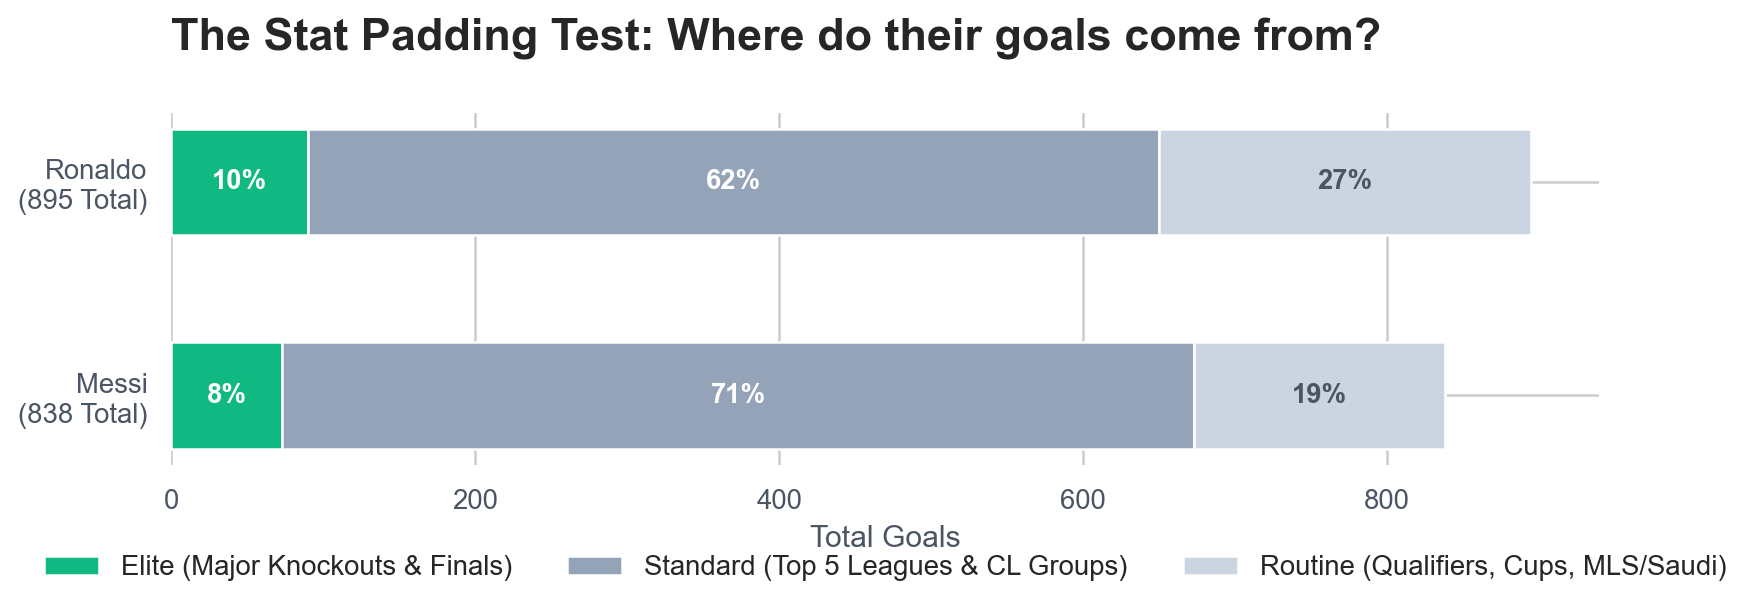
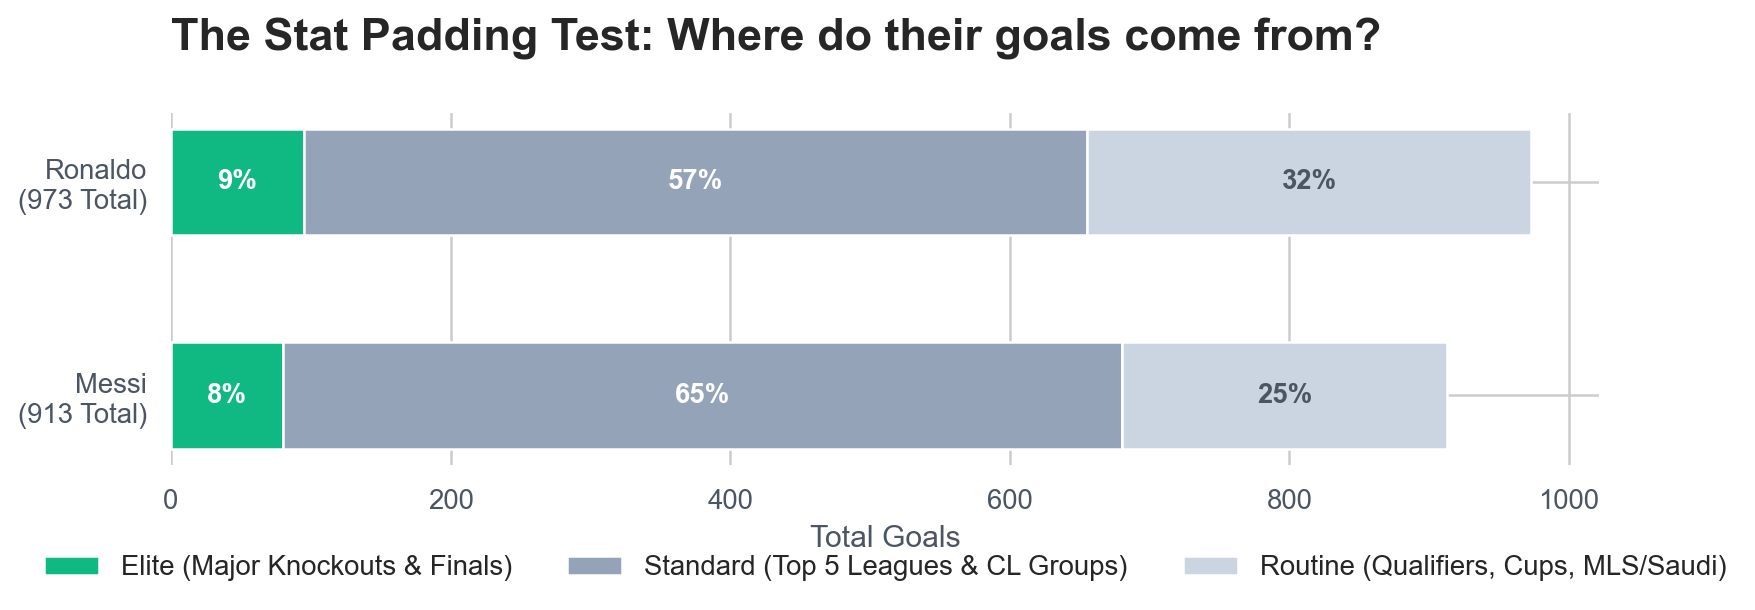
update data: update career goal totals to 900+

diff --git a/src/content/writing/messi-vs-ronaldo.md b/src/content/writing/messi-vs-ronaldo.md
@@ -55,9 +55,9 @@ Before we get back to who is better, we need to look at *how* they score.
 
 ![The Anatomy of a Goal](/images/messi-vs-ronaldo/06_anatomy.png)
 
-Ronaldo has scored 145 headers in his career. That is insane. He is arguably the greatest aerial threat in the history of the sport. 
+Ronaldo has scored over 150 headers in his career. That is insane. He is arguably the greatest aerial threat in the history of the sport. 
 
-Messi has 26. He is tiny. He doesn't jump. He just uses his left foot to pass the ball into the back of the net 700 times. 
+Messi has 28. He is tiny. He doesn't jump. He just uses his left foot to pass the ball into the back of the net over 750 times. 
 
 This is the first hint that they don't actually play the same position.
 
